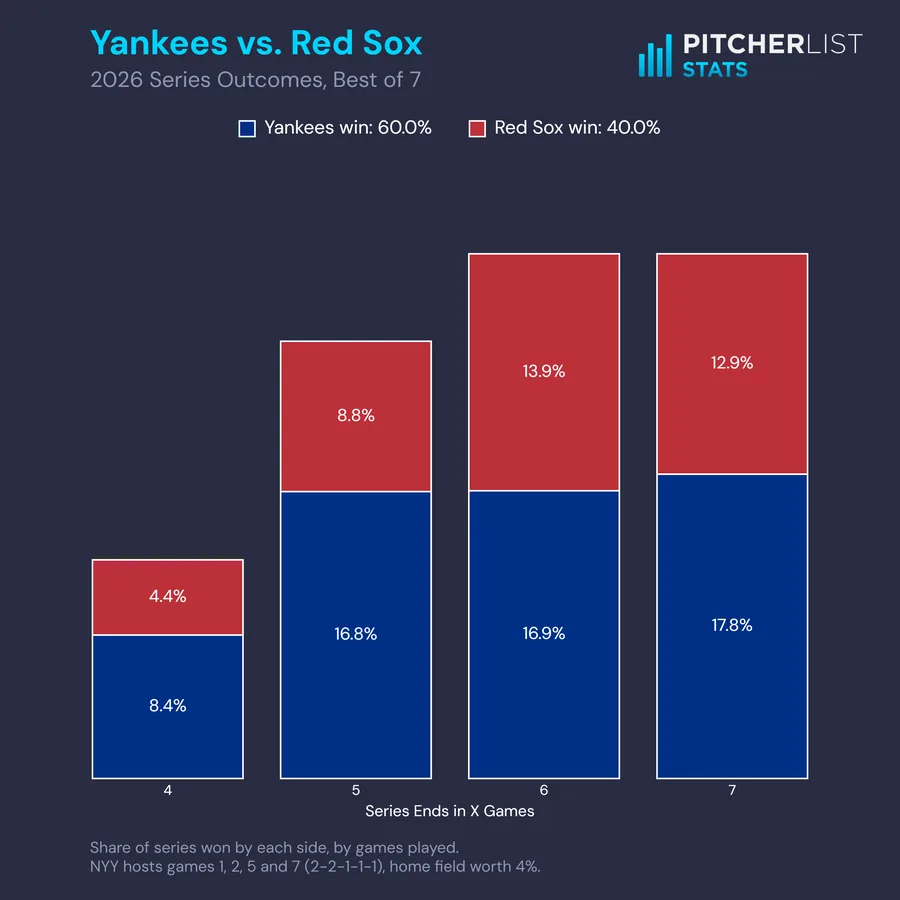
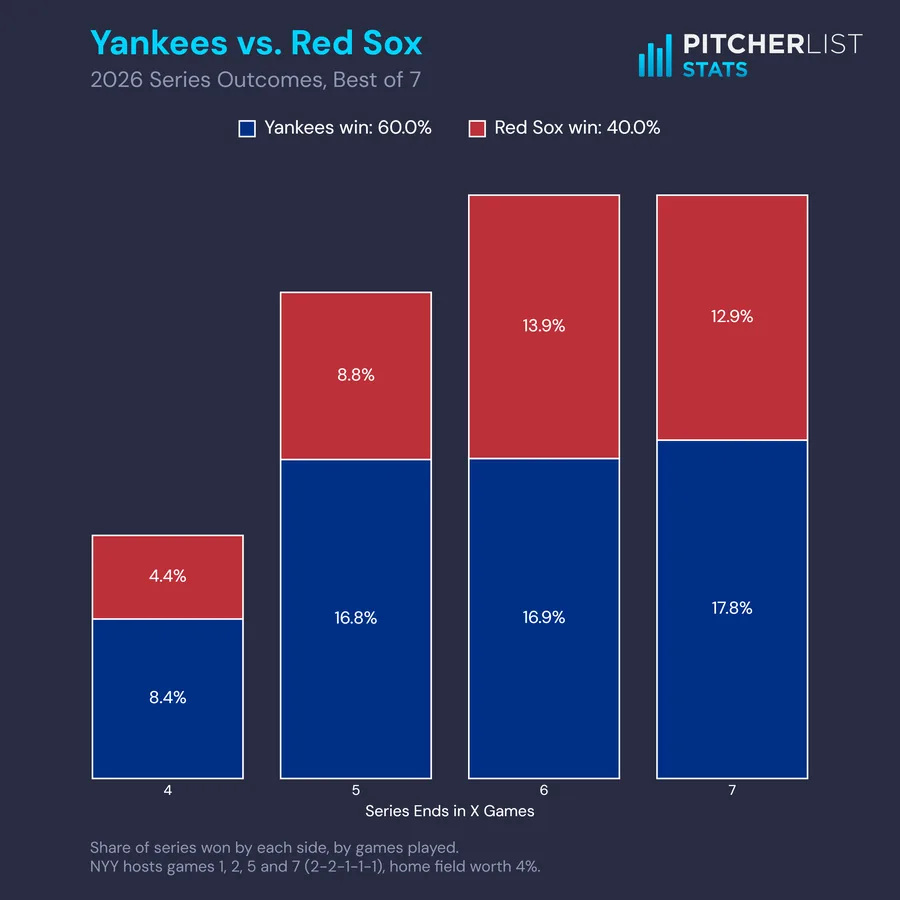
Series Win: halve the gap between the key and the bars
The outcomes chart scaled its bars to 1/1.28 of the axes, which left
75 pt between the key and the tallest bar. The gap is now set directly
(KEY_GAP, 37.5 pt), with the tallest bar stopping that far under the
key; a bar whose thin slices carry tags stops low enough that the tags
keep clear of the key. The homepage tile is rebuilt.

diff --git a/series-win/chart.js b/series-win/chart.js
@@ -399,6 +399,8 @@
   const SIMILAR = 30;
   // the outcomes chart outlines each bar segment, and the tags and key swatches standing in for them
   const OUTLINE = 1 * PT;
+  // the outcomes chart's tallest bar stops this far under the key (half the 75 pt it used to)
+  const KEY_GAP = 37.5 * PT;
   function lab(hex) {
     const [r, g, b] = [1, 3, 5].map((i) => parseInt(hex.slice(i, i + 2), 16) / 255)
       .map((c) => (c <= 0.04045 ? c / 12.92 : ((c + 0.055) / 1.055) ** 2.4));
@@ -537,15 +539,30 @@
     const tallest = Math.max(...space.map((_, i) => hi[i] + lo[i]));
     const x0 = space[0] - 0.5, x1 = space[space.length - 1] + 0.5, margin = 0.05 * (x1 - x0);
     const sx = (x) => ax.x0 + ((x - (x0 - margin)) / (x1 - x0 + 2 * margin)) * (ax.x1 - ax.x0);
-    const ytop = tallest * 1.28;  // room for the key at the top
-    const sy = (y) => ax.y1 - (y / ytop) * (ax.y1 - ax.y0);
+    const size = n >= 13 ? 9 : n >= 9 ? 10 : 11;
+    const labelH = size * PT * 1.25;
+    const fits = (px) => px >= labelH + 4 * PT;       // a segment tall enough to hold its label
+    const tagStep = labelH + 2 * PT + 3 * PT;          // one tag over a bar, and the space after it
+    // The key sits at the top of the axes; the tallest bar stops KEY_GAP under it. A bar
+    // carrying tags for thin slices stops low enough that its tags keep clear of the key.
+    // (Which slices need tags depends on the scale, so it settles over a few passes.)
+    const ky = ax.y0 + 14 * PT, sw = 10 * PT;
+    const room = ax.y1 - (ky + sw / 2);
+    let k = (room - KEY_GAP) / tallest;               // px per unit share
+    for (let pass = 0; pass < 3; pass++) {
+      let next = (room - KEY_GAP) / tallest;
+      space.forEach((_, i) => {
+        const tags = [hi[i], lo[i]].filter((v) => !fits(v * k)).length;
+        if (tags) next = Math.min(next, (room - 6 * PT - 4 * PT - tags * tagStep) / (hi[i] + lo[i]));
+      });
+      k = next;
+    }
+    const sy = (y) => ax.y1 - y * k;
     swingAxes(f, { xTicks: space, sx, xLabel: "Series Ends in X Games" });
     // the lower seed's parts are hatched when its colour could pass for the higher seed's
     const hatch = lookAlike(opts.higher.color, opts.lower.color);
 
     // stacked bars, the higher seed at the bottom, each segment outlined in white
-    const size = n >= 13 ? 9 : n >= 9 ? 10 : 11;
-    const labelH = size * PT * 1.25;
     const halfW = 0.4;
     const above = [];  // labels too big for their segment, stacked over the bar
     space.forEach((g, i) => {
@@ -562,7 +579,7 @@
       const stack = [];
       segs.forEach(([a, b, colour], k) => {
         const s = b - a >= 0.0005 ? pct(b - a) : "~0%";
-        if (sy(a) - sy(b) >= labelH + 4 * PT) text(s, (l + r) / 2, (sy(a) + sy(b)) / 2, { size, ha: "center", va: "middle" });
+        if (fits(sy(a) - sy(b))) text(s, (l + r) / 2, (sy(a) + sy(b)) / 2, { size, ha: "center", va: "middle" });
         else stack.push([s, colour, hatch && k === 1]);
       });
       above.push([g, hi[i] + lo[i], stack]);
@@ -588,7 +605,7 @@
     }
 
     // the key: each side's colour and series win%, centred over the bars
-    const ky = ax.y0 + 14 * PT, sw = 10 * PT, gap = 6 * PT, between = 24 * PT;
+    const gap = 6 * PT, between = 24 * PT;
     const items = [[opts.higher, res.win, false], [opts.lower, 1 - res.win, hatch]].map(([team, v, hatched]) => {
       const s = `${team.name} win: ${pct(v)}`;
       return { team, s, hatched, w: sw + gap + measure(s, 12) };

diff --git a/index.html b/index.html
@@ -124,7 +124,7 @@
 								</article>
 									<article class="style3">
 									<span class="image">
-										<img src="images/tile-series-win.webp?v=6" srcset="images/tile-series-win-720.webp?v=6 720w, images/tile-series-win.webp?v=6 900w" sizes="(max-width: 480px) 100vw, (max-width: 980px) 50vw, 380px" width="900" height="900" alt="Yankees vs. Red Sox series outcomes, best of 7" />
+										<img src="images/tile-series-win.webp?v=7" srcset="images/tile-series-win-720.webp?v=7 720w, images/tile-series-win.webp?v=7 900w" sizes="(max-width: 480px) 100vw, (max-width: 980px) 50vw, 380px" width="900" height="900" alt="Yankees vs. Red Sox series outcomes, best of 7" />
 									</span>
 									<a href="/series-win/">
 										<h2>Series Win</h2>

diff --git a/series-win/index.html b/series-win/index.html
@@ -133,7 +133,7 @@ details[open] summary{margin-bottom:10px}
     </details>
   </section>
 </main>
-<script src="chart.js?v=8"></script>
+<script src="chart.js?v=9"></script>
 <script src="app.js?v=5"></script>
 </body>
 </html>
